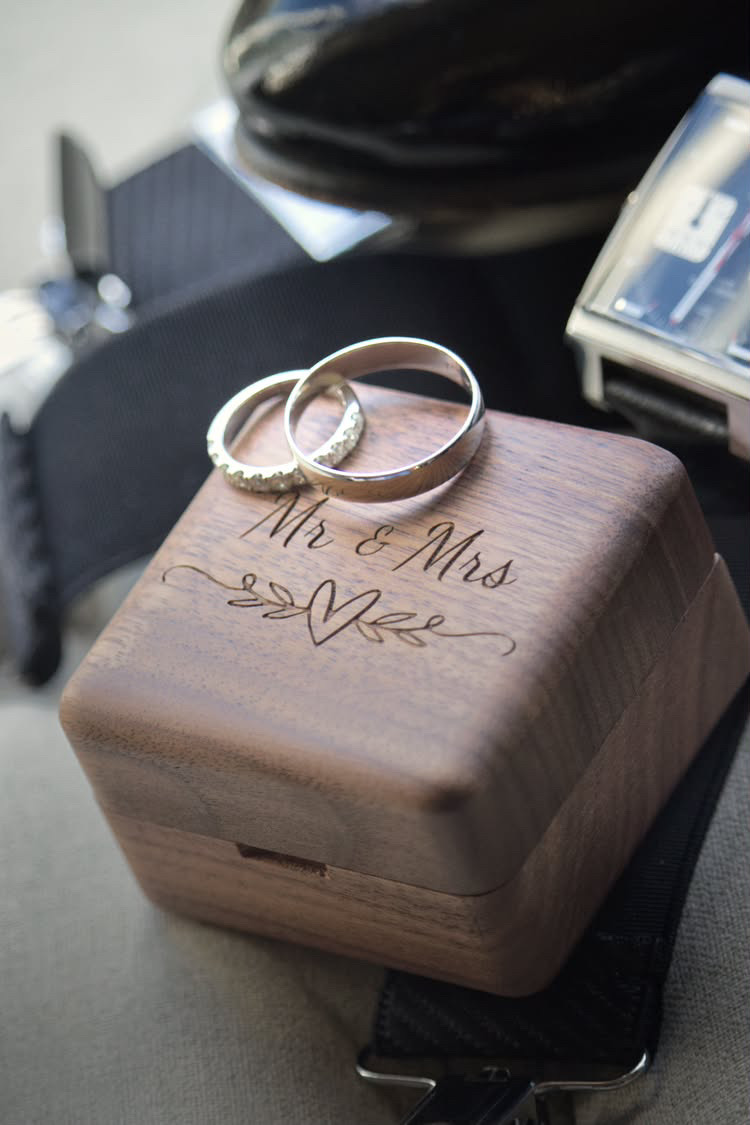
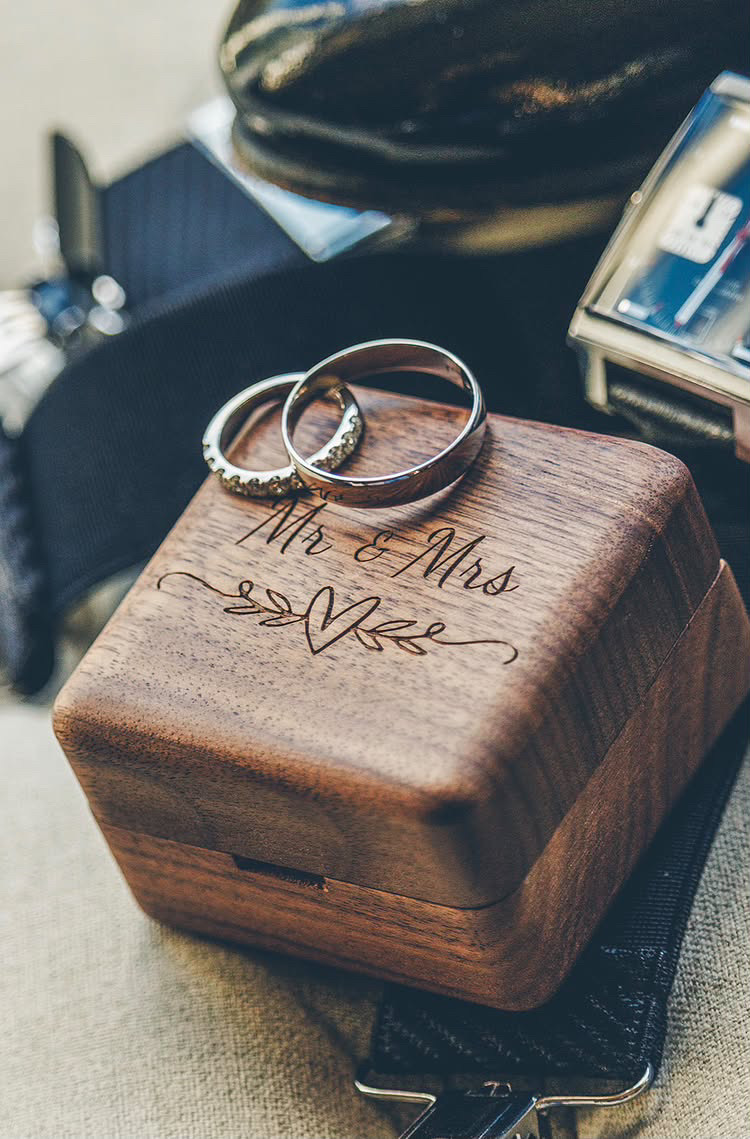
Add Louie's full wedding gallery

diff --git a/app/page.tsx b/app/page.tsx
@@ -1,6 +1,6 @@
-/* eslint-disable @next/next/no-img-element */
 "use client";
 
+import Image from "next/image";
 import { type FormEvent, type KeyboardEvent as ReactKeyboardEvent, useEffect, useState } from "react";
 
 export const dynamic = "force-static";
@@ -34,10 +34,17 @@ const photographs: Photograph[] = [
   { src: "/photos/photo-13.jpg", alt: "Close overhead view of two motorcycle racers leaning through a corner", number: "13", title: "Close Pursuit", category: "Action & Motorsport", shape: "portrait" },
   { src: "/photos/photo-14.jpg", alt: "Motorcycle racer captured at speed with a motion-blurred circuit behind", number: "14", title: "Track Speed", category: "Action & Motorsport", shape: "portrait" },
   { src: "/photos/photo-15.jpg", alt: "Two wedding rings resting on a personalised wooden ring box", number: "15", title: "The Rings", category: "Weddings", shape: "portrait" },
+  { src: "/photos/photo-20.jpg", alt: "Bride holding a white bouquet while looking into an ornate mirror", number: "20", title: "Bridal Portrait", category: "Weddings", shape: "portrait" },
+  { src: "/photos/photo-21.jpg", alt: "Bride applying perfume in front of an ornate mirror", number: "21", title: "Finishing Touches", category: "Weddings", shape: "portrait" },
   { src: "/photos/photo-16.jpg", alt: "Groom's shoes, bow tie, watch and accessories arranged by a window", number: "16", title: "Groom's Details", category: "Weddings", shape: "landscape" },
+  { src: "/photos/photo-22.jpg", alt: "Groom adjusting his waistcoat while reflected in a mirror", number: "22", title: "Before the Ceremony", category: "Weddings", shape: "portrait" },
+  { src: "/photos/photo-23.jpg", alt: "Black-and-white close-up of the groom's watch, cufflink and ring", number: "23", title: "Time & Detail", category: "Weddings", shape: "portrait" },
+  { src: "/photos/photo-24.jpg", alt: "Framed welcome sign outside the wedding venue", number: "24", title: "The Welcome", category: "Weddings", shape: "portrait" },
   { src: "/photos/photo-17.jpg", alt: "Wedding seating plan beside a blue-and-white floral arrangement", number: "17", title: "Find Your Seat", category: "Weddings", shape: "portrait" },
+  { src: "/photos/photo-25.jpg", alt: "Black-and-white view of the couple exchanging vows beneath a flower-covered canopy", number: "25", title: "The Ceremony", category: "Weddings", shape: "portrait" },
   { src: "/photos/photo-18.jpg", alt: "Newly married couple kissing outside a dark timber building", number: "18", title: "Just Married", category: "Weddings", shape: "portrait" },
-  { src: "/photos/photo-19.jpg", alt: "Newly married couple kissing beside a framed wedding welcome sign", number: "19", title: "The Welcome", category: "Weddings", shape: "portrait" },
+  { src: "/photos/photo-26.jpg", alt: "Close portrait of the newly married couple framed by soft green leaves", number: "26", title: "Among the Leaves", category: "Weddings", shape: "portrait" },
+  { src: "/photos/photo-19.jpg", alt: "Newly married couple kissing beside a framed wedding welcome sign", number: "19", title: "A Quiet Moment", category: "Weddings", shape: "portrait" },
 ];
 
 const categories: Array<{ name: Category; id: string; note: string }> = [
@@ -78,16 +85,26 @@ const publicPath = (path: string) => `${publicBasePath}${path}`;
 function Brand() {
   return (
     <a className="brand" href="#top" aria-label="Louie Harrington Photography — home">
-      <img className="brand__image" src={publicPath("/photos/logo.jpg")} alt="" />
+      <Image className="brand__image" src={publicPath("/photos/logo.jpg")} alt="" width={40} height={40} sizes="40px" />
       <span className="brand__name">Louie Harrington</span>
     </a>
   );
 }
 
-function Photo({ photograph, className = "" }: { photograph: Photograph; className?: string }) {
+function Photo({
+  photograph,
+  className = "",
+  priority = false,
+  sizes = "(max-width: 620px) calc(100vw - 32px), (max-width: 900px) 48vw, 40vw",
+}: {
+  photograph: Photograph;
+  className?: string;
+  priority?: boolean;
+  sizes?: string;
+}) {
   return (
     <div className={`photo-surface ${className}`}>
-      <img src={publicPath(photograph.src)} alt={photograph.alt} loading={photograph.number === "01" ? "eager" : "lazy"} />
+      <Image src={publicPath(photograph.src)} alt={photograph.alt} fill sizes={sizes} priority={priority} />
     </div>
   );
 }
@@ -202,7 +219,7 @@ export default function Home() {
           </div>
         </div>
         <div className="hero__visual">
-          <Photo photograph={photographs[0]} />
+          <Photo photograph={photographs[0]} priority sizes="(max-width: 900px) 100vw, 56vw" />
           <p className="image-note"><span>St Paul&apos;s, London</span><span>01 / {photographs.length}</span></p>
         </div>
       </section>
@@ -295,9 +312,9 @@ export default function Home() {
         <div className="about__content">
           <h2 id="about-title">Sports, action and moments—seen through Louie&apos;s lens.</h2>
           <div className="about__profile">
-            <div className="about__portrait"><img src={publicPath("/photos/louie-portrait.jpg")} alt="Louie Harrington photographing from the sideline" /></div>
+            <div className="about__portrait"><Image src={publicPath("/photos/louie-portrait.jpg")} alt="Louie Harrington photographing from the sideline" fill sizes="(max-width: 900px) 100vw, 42vw" /></div>
             <div className="about__details">
-              <img className="about__logo" src={publicPath("/photos/logo.jpg")} alt="Louie Harrington Photography logo" />
+              <Image className="about__logo" src={publicPath("/photos/logo.jpg")} alt="Louie Harrington Photography logo" width={320} height={320} sizes="(max-width: 620px) calc(100vw - 32px), 320px" />
               <div className="about__copy">
                 <p>Louie Harrington is a young photographer developing a portfolio across sport, action, automotive, portraits, city and assistant wedding photography.</p>
                 <p>His work looks for the decisive moment: the split second where movement, expression and composition come together.</p>
@@ -372,7 +389,7 @@ export default function Home() {
           <button className="lightbox__close" type="button" aria-label="Close photograph viewer" onClick={() => setSelectedIndex(null)}>Close</button>
           <button className="lightbox__arrow lightbox__arrow--left" type="button" aria-label="Previous photograph" onClick={(event) => { event.stopPropagation(); showPrevious(); }}>←</button>
           <div className="lightbox__image" onClick={(event) => event.stopPropagation()}>
-            <Photo photograph={photographs[selectedIndex]} />
+            <Photo photograph={photographs[selectedIndex]} priority sizes="100vw" />
             <p><span>{photographs[selectedIndex].category} · {photographs[selectedIndex].title}</span><span>{photographs[selectedIndex].number} / {photographs.length}</span></p>
           </div>
           <button className="lightbox__arrow lightbox__arrow--right" type="button" aria-label="Next photograph" onClick={(event) => { event.stopPropagation(); showNext(); }}>→</button>

diff --git a/app/globals.css b/app/globals.css
@@ -358,6 +358,13 @@ footer > a:focus-visible::after {
 .tab-gallery .gallery-item:nth-child(3) { grid-column: 2 / span 4; }
 .tab-gallery .gallery-item:nth-child(4) { grid-column: 7 / span 5; }
 .tab-gallery .gallery-item:nth-child(5) { grid-column: 4 / span 5; }
+.tab-gallery .gallery-item:nth-child(6) { grid-column: 1 / span 6; }
+.tab-gallery .gallery-item:nth-child(7) { grid-column: 8 / span 4; }
+.tab-gallery .gallery-item:nth-child(8) { grid-column: 2 / span 5; }
+.tab-gallery .gallery-item:nth-child(9) { grid-column: 8 / span 5; }
+.tab-gallery .gallery-item:nth-child(10) { grid-column: 1 / span 4; }
+.tab-gallery .gallery-item:nth-child(11) { grid-column: 6 / span 6; }
+.tab-gallery .gallery-item:nth-child(12) { grid-column: 4 / span 5; }
 .tab-gallery--portraits .gallery-item:first-child { grid-column: 4 / span 5; }
 
 .gallery-item--portrait .photo-surface { aspect-ratio: 3 / 4; }
@@ -481,7 +488,7 @@ footer > a:focus-visible::after {
   margin-top: clamp(56px, 8vw, 110px);
 }
 
-.about__portrait { aspect-ratio: 4 / 3; overflow: hidden; }
+.about__portrait { aspect-ratio: 4 / 3; overflow: hidden; position: relative; }
 .about__portrait img { height: 100%; object-fit: cover; width: 100%; }
 .about__details { padding-top: 6px; }
 .about__logo { height: auto; max-width: 320px; width: min(100%, 320px); }

diff --git a/next.config.ts b/next.config.ts
@@ -9,6 +9,7 @@ const nextConfig: NextConfig = isGitHubPages
       ...(githubPagesBasePath
         ? { basePath: githubPagesBasePath, assetPrefix: githubPagesBasePath }
         : {}),
+      images: { unoptimized: true },
       trailingSlash: true,
       typescript: { ignoreBuildErrors: true },
     }

diff --git a/public/photos/README.md b/public/photos/README.md
@@ -1,6 +1,6 @@
 # LH Photography image slots
 
-Add the approved original photographs here as `photo-01.jpg` through `photo-19.jpg`.
+Add the approved original photographs here as `photo-01.jpg` through `photo-26.jpg`.
 
 Add the approved logo as `logo.jpg`.
 
